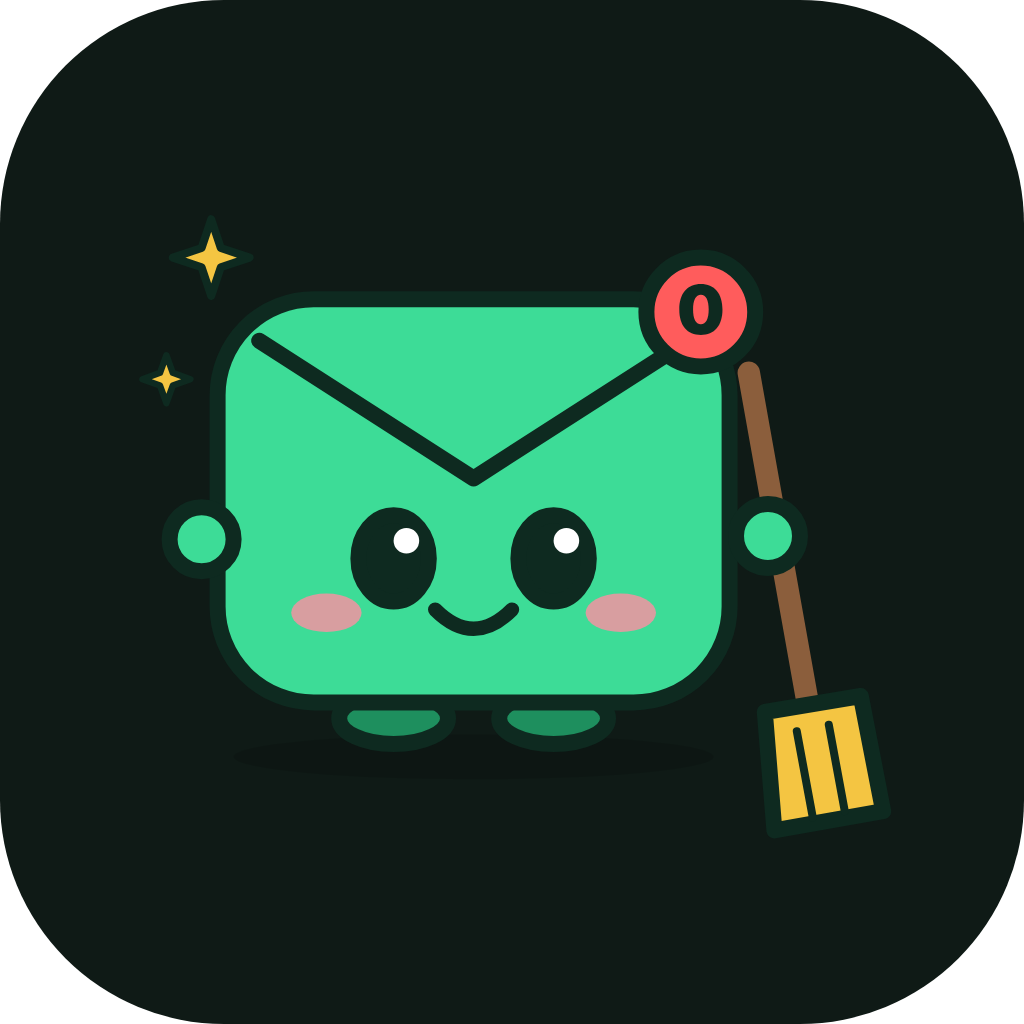
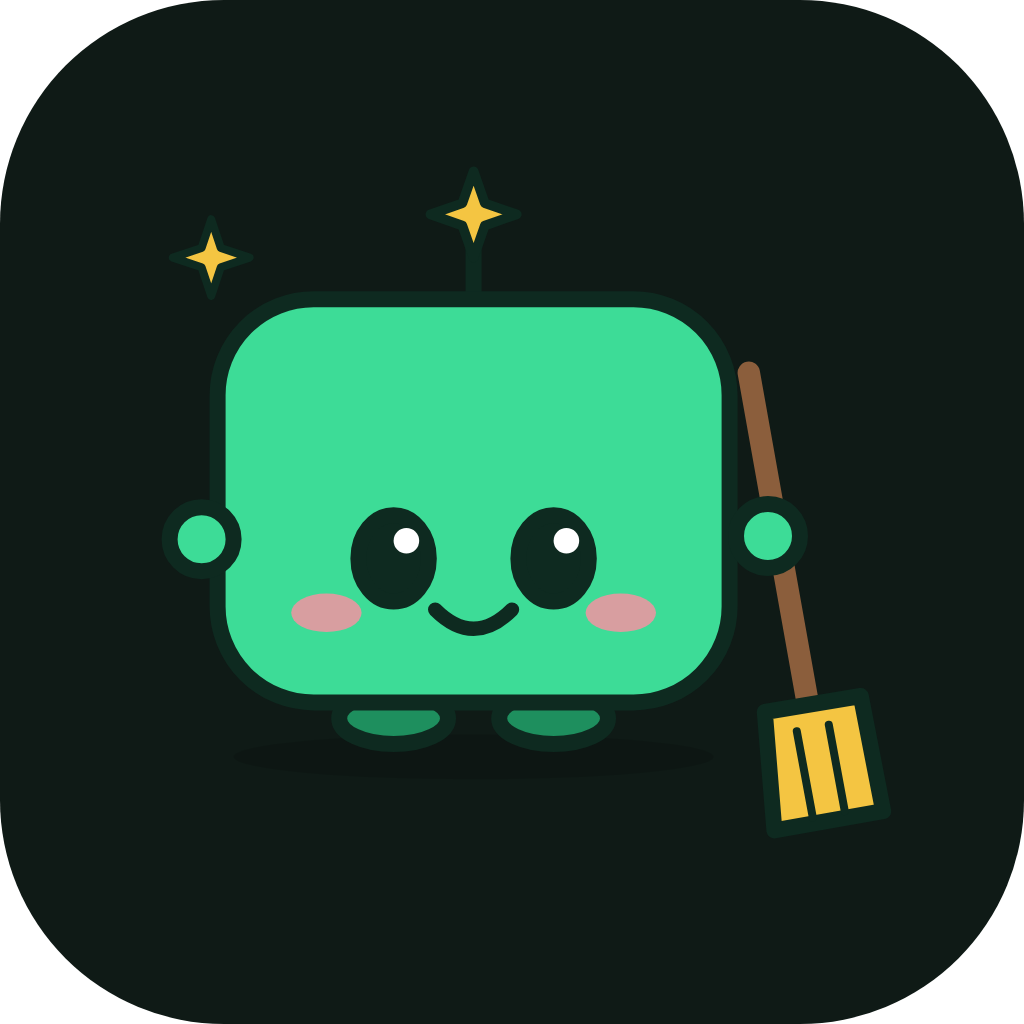
Brand: general Tidy mascot with mail and subscriptions costumes, generator script
Claude-Session: https://claude.ai/code/session_01AP3VW4maryCLtwLkUJB5Ts

Changed region(s): [[0.25, 0.25, 0.75, 0.4688], [0.4375, 0.1875, 0.5, 0.25], [0.1562, 0.3438, 0.1875, 0.375]]

diff --git a/docs/assets/brand/make_brand.py b/docs/assets/brand/make_brand.py
@@ -1,0 +1,95 @@
+"""Regenerate the Tidy brand kit (SVG, plus PNG via headless Chrome if available): python docs/assets/brand/make_brand.py"""
+
+from pathlib import Path
+import shutil
+import subprocess
+
+HERE = Path(__file__).parent
+INK, MINT, NIGHT, SPARKLE, BADGE = "#0E2A20", "#3DDC97", "#0F1A16", "#F4C542", "#FF5C5C"
+FONT = 'font-family="Inter, system-ui, sans-serif"'
+
+
+def _face():
+    return (f'<ellipse cx="206" cy="312" rx="22" ry="27" fill="{INK}"/><ellipse cx="306" cy="312" rx="22" ry="27" fill="{INK}"/>'
+            '<circle cx="214" cy="301" r="8" fill="#fff" stroke="none"/><circle cx="314" cy="301" r="8" fill="#fff" stroke="none"/>'
+            '<ellipse cx="164" cy="346" rx="22" ry="12" fill="#FF8FA3" fill-opacity=".8" stroke="none"/>'
+            '<ellipse cx="348" cy="346" rx="22" ry="12" fill="#FF8FA3" fill-opacity=".8" stroke="none"/>'
+            '<path d="M232 344 Q256 368 280 344" fill="none" stroke-width="9"/>')
+
+
+def _character(under="", body="", badge=""):
+    return (f'<g stroke="{INK}" stroke-width="10" stroke-linecap="round" stroke-linejoin="round">'
+            '<ellipse cx="256" cy="436" rx="150" ry="14" fill="#000" fill-opacity=".12" stroke="none"/>'
+            f'<path d="M86 118 l6 -18 l6 18 l18 6 l-18 6 l-6 18 l-6 -18 l-18 -6 z" fill="{SPARKLE}" stroke-width="5"/>'
+            '<line x1="428" y1="196" x2="468" y2="420" stroke="#8B5E3C" stroke-width="14"/>'
+            f'<path d="M438 408 L498 398 L512 470 L444 482 Z" fill="{SPARKLE}"/><path d="M458 420 L468 474 M478 416 L488 470" stroke-width="5"/>'
+            f'{under}<ellipse cx="206" cy="412" rx="34" ry="16" fill="#1E8F5E"/><ellipse cx="306" cy="412" rx="34" ry="16" fill="#1E8F5E"/>'
+            f'<rect x="96" y="150" width="320" height="252" rx="60" fill="{MINT}"/>{body}'
+            f'<circle cx="86" cy="300" r="20" fill="{MINT}"/><circle cx="440" cy="298" r="20" fill="{MINT}"/>{_face()}{badge}</g>')
+
+
+# One character, a costume per area. No third-party logos (e.g. no play-button shapes): generic props only.
+BRAND = _character(under=f'<line x1="256" y1="150" x2="256" y2="104"/><path d="M256 70 l7 20 l20 7 l-20 7 l-7 20 l-7 -20 '
+                         f'l-20 -7 l20 -7 z" fill="{SPARKLE}" stroke-width="6"/>')
+MAIL = _character(body='<path d="M122 176 L256 262 L390 176" fill="none"/>',
+                  badge=f'<circle cx="398" cy="158" r="34" fill="{BADGE}"/><text x="398" y="172" text-anchor="middle" {FONT} '
+                        f'font-weight="900" font-size="42" fill="{INK}" stroke="none">0</text>')
+SUBSCRIPTIONS = _character(
+    under=f'<line x1="220" y1="152" x2="180" y2="96"/><line x1="292" y1="152" x2="332" y2="96"/>'
+          f'<circle cx="180" cy="96" r="10" fill="{SPARKLE}"/><circle cx="332" cy="96" r="10" fill="{SPARKLE}"/>',
+    body='<rect x="128" y="186" width="256" height="190" rx="38" fill="#6BEBB6" stroke-width="7"/>',
+    badge='<circle cx="398" cy="158" r="34" fill="#8FB0FF"/><path d="M382 158 l11 12 l21 -24" fill="none" stroke-width="9"/>')
+
+
+def place(character, x, y, scale):
+    return f'<g transform="translate({x} {y}) scale({scale}) translate(-30 -33)">{character}</g>'
+
+
+def text(x, y, size, weight, color, words, anchor="start", mono=False):
+    font = 'font-family="ui-monospace, Menlo, monospace"' if mono else FONT
+    return f'<text x="{x}" y="{y}" text-anchor="{anchor}" {font} font-weight="{weight}" font-size="{size}" fill="{color}">{words}</text>'
+
+
+def lockup(bg, word, tag):
+    return (f'<rect width="1600" height="600" fill="{bg}"/>' + place(BRAND, 120, 70, 0.92)
+            + text(640, 330, 220, 900, word, "tidy") + text(648, 420, 46, 600, tag, "Declutter, safely."))
+
+
+FILES = {
+    "tidy-mascot": (500, 500, place(BRAND, 0, 0, 1)),
+    "tidy-mascot-mail": (500, 500, place(MAIL, 0, 0, 1)),
+    "tidy-mascot-subscriptions": (500, 500, place(SUBSCRIPTIONS, 0, 0, 1)),
+    "tidy-icon": (512, 512, f'<rect width="512" height="512" rx="112" fill="{NIGHT}"/>' + place(BRAND, 56, 56, 0.8)),
+    "tidy-lockup-dark": (1600, 600, lockup(NIGHT, "#F5F7FA", MINT)),
+    "tidy-lockup-light": (1600, 600, lockup("#F4F7F5", INK, "#1A6650")),
+    "tidy-family": (1560, 620, f'<rect width="1560" height="620" fill="{NIGHT}"/>' + "".join(
+        place(c, x, 60, 0.9) + text(x + 228, 560, 34, 800, "#F5F7FA", label, "middle")
+        for c, x, label in ((BRAND, 40, "Tidy"), (MAIL, 560, "Tidy for mail"), (SUBSCRIPTIONS, 1080, "Tidy for subscriptions")))),
+    "tidy-launch-card": (1600, 900, f'<rect width="1600" height="900" fill="{NIGHT}"/>' + place(BRAND, 930, 170, 1.15)
+        + text(110, 250, 104, 900, "#F5F7FA", "Meet Tidy.")
+        + text(110, 360, 54, 700, "#F5F7FA", "AI cleans your Gmail")
+        + text(110, 430, 54, 700, "#F5F7FA", "and YouTube. You stay")
+        + text(110, 500, 54, 700, "#F5F7FA", "in charge.")
+        + text(110, 600, 40, 600, MINT, "About 45 cents to sort 12,158 emails")
+        + f'<rect x="110" y="680" width="620" height="96" rx="20" fill="#1A2A24" stroke="{MINT}" stroke-width="3"/>'
+        + text(140, 742, 40, 700, "#F5F7FA", "$ pipx install tidy-ai", mono=True)),
+}
+
+
+def main():
+    chrome = shutil.which("google-chrome") or shutil.which("chromium")
+    for name, (w, h, body) in FILES.items():
+        svg = HERE / f"{name}.svg"
+        svg.write_text(f'<svg xmlns="http://www.w3.org/2000/svg" viewBox="0 0 {w} {h}" width="{w}" height="{h}">'
+                       f'<title>Tidy</title>{body}</svg>\n')
+        if chrome:
+            page = HERE / "_render.html"
+            page.write_text(f'<html><body style="margin:0;background:transparent"><img src="{svg.name}" width="{w}" height="{h}"></body></html>')
+            subprocess.run([chrome, "--headless=new", "--disable-gpu", "--hide-scrollbars", "--force-device-scale-factor=2",
+                            "--default-background-color=00000000", f"--window-size={w},{h}",
+                            f"--screenshot={HERE / (name + '.png')}", page.as_uri()], capture_output=True, check=True)
+            page.unlink()
+
+
+if __name__ == "__main__":
+    main()

diff --git a/docs/assets/brand/README.md b/docs/assets/brand/README.md
@@ -1,13 +1,21 @@
 # Tidy brand kit
 
-Tidy is a little envelope with a broom, a "0" unread badge and sparkles: inbox zero, safely.
-Free to use in posts, videos and slides about Tidy (MIT, like the code). SVGs scale to any size.
+Tidy is one little character with a broom, and a costume for each thing it cleans up.
+
+![Tidy family](tidy-family.png)
+
+Free to use in posts, videos and slides about Tidy (MIT, like the code). SVGs scale to any size; PNGs are 2x.
+Regenerate everything with `python docs/assets/brand/make_brand.py`.
 
 | File | Use |
 |---|---|
-| `tidy-mascot.svg` / `.png` | the character on a transparent background (videos, stickers, overlays) |
-| `tidy-icon.svg` / `.png` | square app icon or avatar |
-| `tidy-lockup-light` / `-dark` | mascot plus "tidy" wordmark, for headers and title cards |
+| `tidy-mascot` | the main character, transparent background: logo, stickers, video overlays |
+| `tidy-mascot-mail` | the email costume (envelope, "0" unread badge) for mail content |
+| `tidy-mascot-subscriptions` | the subscriptions costume (little TV, check badge) for YouTube content |
+| `tidy-icon` | square app icon or profile picture |
+| `tidy-lockup-light` / `-dark` | character plus the "tidy" wordmark, for headers and title cards |
 | `tidy-launch-card` | 16:9 image for X and LinkedIn posts |
+| `tidy-family` | all three together |
 
 Colors: mint `#3DDC97`, ink `#0E2A20`, night `#0F1A16`, sparkle `#F4C542`, badge `#FF5C5C`, blush `#FF8FA3`. Font: Inter.
+Costumes use generic props only: never another company's logo (for example, no play-button shapes).
